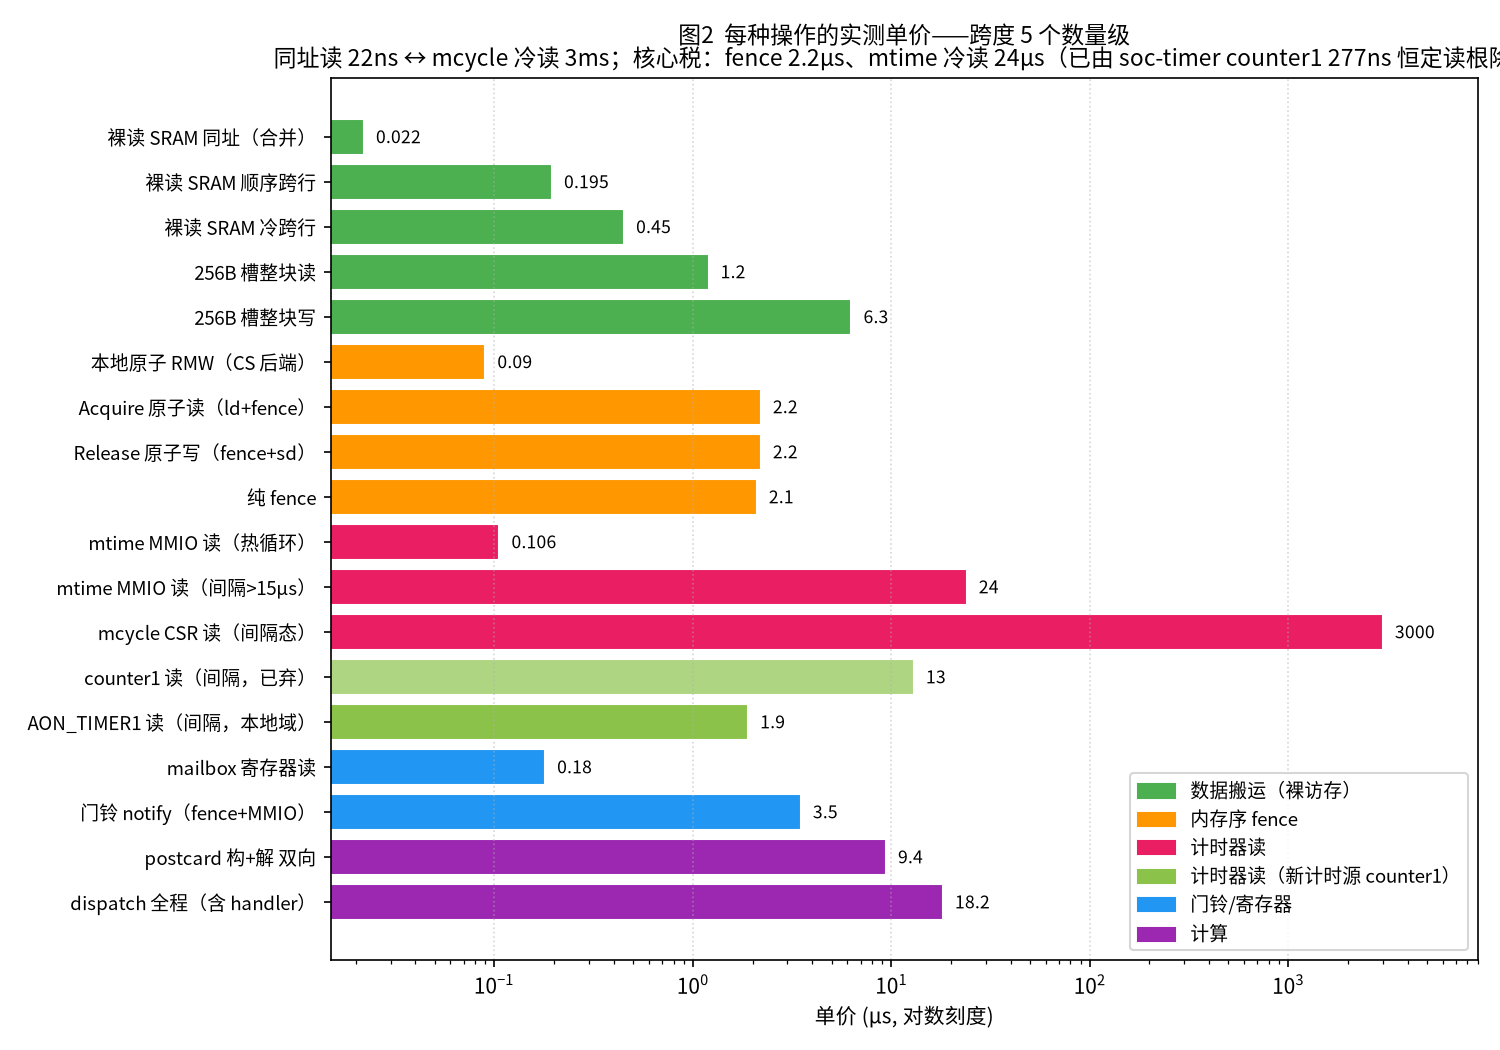
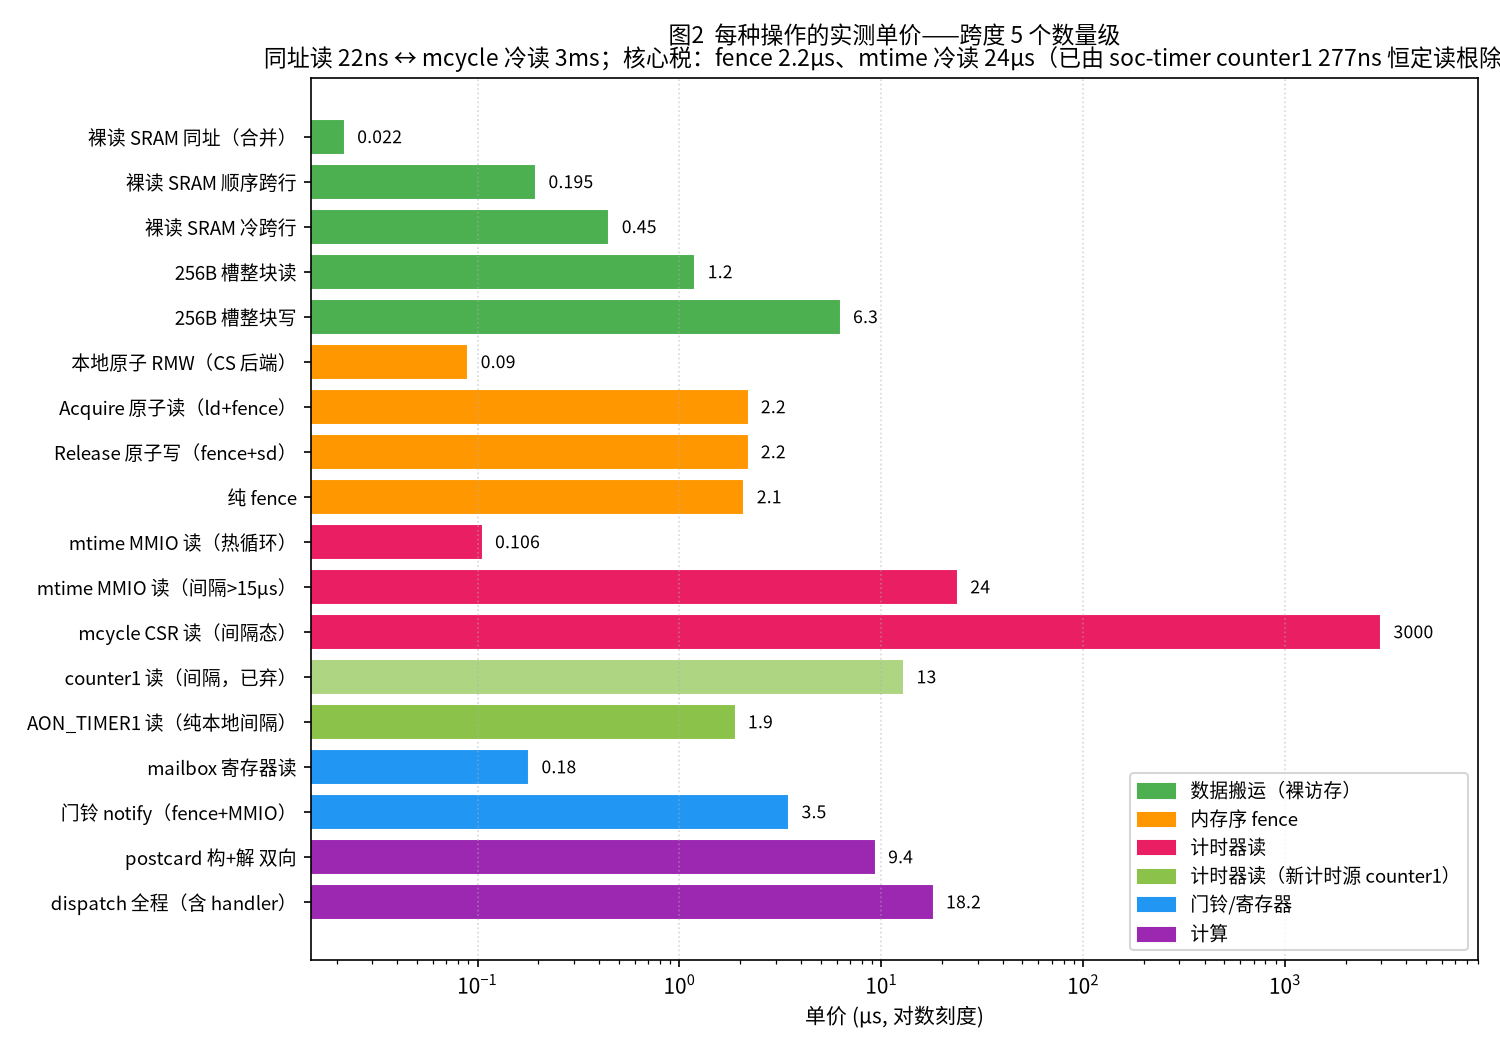
docs(latency-report): AON 迁移二度证伪回滚定案——mtime 税在生产路径被交织流量保温（探针税≠生产税），换源线关闭

diff --git a/docs/latency-report/make_figs.py b/docs/latency-report/make_figs.py
@@ -79,7 +79,7 @@ def fig2_unit_price():
         ("mtime MMIO 读（间隔>15µs）", 24.0, C_TIMER),
         ("mcycle CSR 读（间隔态）",    3000.0, C_TIMER),
         ("counter1 读（间隔，已弃）", 13.0, "#AED581"),  # AP 域跨互连 ~13µs 重锁税，换源证伪
-        ("AON_TIMER1 读（间隔，本地域）", 1.9, "#8BC34A"),  # 换源达标并迁移（eb2da18）：热读 4ns
+        ("AON_TIMER1 读（纯本地间隔）", 1.9, "#8BC34A"),  # 探针价；生产路径间隔仍 ~10µs 级（二度证伪）
         ("mailbox 寄存器读",           0.18, C_BELL),
         ("门铃 notify（fence+MMIO）",  3.5,  C_BELL),
         ("postcard 构+解 双向",        9.4,  C_COMP),

diff --git a/docs/latency-report/REPORT.md b/docs/latency-report/REPORT.md
@@ -107,7 +107,7 @@ D1 路径六段（dd 场景闭环恒等式 `rtt = send + ddrain + ddisp + dseen 
 | mcycle CSR 读（热） | **17ns** | 4 cycle/笔（cycle_hot 4158c/千笔），CSR 本地读无 MMIO |
 | mcycle CSR 读（间隔 ~400µs） | **~2.9ms** | 冷读税比 mtime 重 118 倍；但计数为**核频 245.84MHz**（cycle_cal 联标 1,229,222c/5ms，非 mtime 同源）——"仅冷读慢"型：stamp 链段间保温可用（保温笔仅 17ns），生产每消息级间隔计时冷读不可用 |
 | **soc-timer counter1（0xd4016094）** | 背靠背 277ns；**间隔读 ~13µs** | AP 域 APB 块，12.8MHz 自由运行（mux=0）。换源方案**板上证伪**（08-22）：277ns 是流水价，真实路径 mark 间隔 µs 级仍触发 ~13µs 重锁税（跨域同病、仅轻于 mtime 的 24.5µs），整链 8 笔净亏（rtt 240→248.5 实证）；驱动已删（dfb8b5e，timer_k3 改道本地域） |
-| **AON_TIMER1（0xc0889000，本地域）** | 背靠背 **4ns**；间隔读 **~1.9µs** | RCPU AON 域专属（06_address_map §6.2）。板上验证（08-22）：计数递增、实测 **2.0001MHz**（文档标称 SEL=0=25.6MHz 与实况不符）、热读全系统最快（mtime 106 / mailbox 148 / counter1 277ns）、间隔读税 = mtime 的 1/13（tmr_aon_gapped wall−Σaon 实测，规避插入式盲区）。**生产计时链已迁移（eb2da18）**；分辨率 500ns/tick、回卷 35.8min |
+| **AON_TIMER1（0xc0889000，本地域）** | 背靠背 **4ns**；纯本地间隔读 **~1.9µs**；**生产路径间隔读 ~10µs 级** | RCPU AON 域专属（06_address_map §6.2）。板上验证（08-22）：计数递增、实测 **2.0001MHz**（文档标称 SEL=0=25.6MHz 与实况不符）。**生产迁移二度证伪回滚（05691b0）**：rtt 240→251.5 反向，各段与 counter1 轮同形——探针税（纯本地 spin 间隔）≠ 生产税（跨域流量填充间隔），见 §6 |
 
 **推论**：每条消息的计时/统计链（step 计时、SVC 统计、弹性窗计时、测量构建的 stamp 链）里有若干笔"间隔上百 ms 的冷读"——**每笔真等 24µs**。测量构建（probe 开）每消息 6-8 笔（40-70µs 税）；**生产构建（probe 关）只剩 step/SVC 计时 2-4 笔（24-48µs 税）**。
 
@@ -176,7 +176,7 @@ D1 路径六段（dd 场景闭环恒等式 `rtt = send + ddrain + ddisp + dseen 
 | 优先级 | 项 | 内容 | 预期收益 | 工作量/风险 |
 |-------|----|------|---------|------------|
 | ✅ 已完成 | P1 | 单核原子 CS 后端（atomic-cas:false target）+ timer 直连 + 本地别名窗 + mailbox 去 Acquire | 294→240（D1）/ 209→189（D2） | 已合入 |
-| **进行中** | **计时瘦身（本地换源复活）** | counter1 换源证伪回滚（6f4ec9d）后，**本地域 AON_TIMER1 换源达标并已迁移（eb2da18，08-22 板上验证）**：热读 4ns、间隔读税 ~1.9µs（mtime 24.5µs 的 1/13）。预期生产链 2-4 笔 mark 的税 49-98µs → 4-8µs；**待板上 dd 复测确认收益**（若达标即闭环，采样制降级为备选） | **−40~90µs（D1）**（待实测） | 已完成 / 待验证 |
+| ❌ 已证伪 | ~~计时瘦身·换源~~ | **两度板上证伪并回滚**（counter1：6f4ec9d；AON_TIMER1：05691b0）。**根因定性（08-22 AON 轮定案）：mtime 的 24.5µs 冷读税在生产路径从未被支付**——stamp 点前后交织的 SHM/fence 流量把 mtime 路径保温，基线无税可省；替换计时器（无论域别）在真实间隔下读仍付 ~10µs 级（探针税≠生产税）。计时链维持 mtime；剩余可行项 = **减 mark 笔数**（探针/统计降频），收益重新评估 | 重新评估（原 −40~90µs 前提不成立） | — |
 | 第 2 刀 | **P3 fence 去冗余** | magic 缓存 + 自产索引 Relaxed + 自旋 6→2 笔（D2 发现粒度 ×3）+ ch2 查询瘦身 | −10µs/消息 + 自旋 18→6µs/轮 | 中 / 低——正确性论证已完成（SPSC 单写者 + RP 无缓存） |
 | 第 3 刀 | **W2 双向轮询** | AP 响应方向用户态自旋（已实测 −11µs）；绕过 MSIP 54µs 物理地板 | −11µs 起；延迟关键模式更多 | 小（bench 已预演）/ 烧 AP 核 |
 | ❌ 已否决 | ~~P2 ISR 直派~~ | ~~响应在 ISR 内写完~~ **否决（2026-08-21）**：不破坏 rt-async 的任务模型——实际处理必须留在 task 上下文（executor/waker 语义），ISR 只做唤醒/标记；ddisp 27.1µs 作为结构性成本保留 | —（预期 −22µs 放弃） | — |
@@ -186,7 +186,7 @@ D1 路径六段（dd 场景闭环恒等式 `rtt = send + ddrain + ddisp + dseen 
 
 **本地域优先原则（2026-08-22 定案，后续所有外设选型遵守）**：RT24 高延迟访问的根因是**跨簇间互连**——mtime（SysTimer @0xe4000000）虽是 rcpu1 功能上的计时器（mtimecmp 按 hart<<27 分区服务全部 hart），但物理上是全 SoC 共享块，挂在簇间互连上，读它必出远门（24.5µs 间隔重锁税即互连/桥的空闲路径唤醒，热读 106ns 证明路径本身不慢；机制无文档，未解项）。**RT24 本地总线上的外设只有 0xc088_xxxx AON 域这批**（06_address_map §6.2：AON_TIMER1~4、mailbox、PWM 等）。凡是高频访问的外设（计时、自旋索引），尽可能以本地域替代外域——这是 AON_TIMER1 换源尝试（dfb8b5e）与远期硬件选项筛选的共同准则。附带收获：**2026-08-21 "rtimer0 块死"悬案破案**——非域过滤，是 `MCU_TIMER1_CLK_RST`（0xc088c04c）bit0 TIMER_SW_RSTN **低有效**（复位值 0=保持复位），当时按 APBC 高有效惯例写两笔 0x7→0x3，第二笔清了 bit0 把外设重新按住复位。
 
-**本地域换源：AON_TIMER1 验证达标并迁移（08-22 板上，eb2da18）**：tmr_rt_on 计数递增（Δ=2002/ms）破"块死"旧案；tmr_aon_cal 联标 **2.0001MHz**（文档 SEL=0 标称 25.6MHz 与实况不符，按实测；2MHz 下 32 位回卷 35.8min、分辨率 500ns——dd 分段数十 µs 足够）；**热读 4ns/笔**（全系统最快，快于 mtime 106 / mailbox 寄存器 148 / counter1 277ns——本地域身份的铁证）；**间隔读税 ~1.9µs/笔**（tmr_aon_gapped：wall−Σaon 摊 200 轮，含 mtime 括号冷读摊薄 ~245ns；结构 = 忙等脱离 mtime 计时，规避 counter1 轮的插入式盲区）。比 1µs 判据略超但为 mtime 的 **1/13**——生产链 2-4 笔 mark 的税 49-98µs → 4-8µs。**已迁移**（ISR 戳/T_SCHED/t_seen/step SVC/弹性窗/membench 括号/delay/stamp 链同源；counter1 轮 t_seen 漏迁致混合钟的前车之鉴，本轮全量核查）；mtimecmp 睡眠唤醒仍走 SysTimer。待板上 dd 复测确认收益。副产品：本轮 spin_loop 忙等实测每轮 ~25ms（CVA6 pause 指令比预期贵），不影响判据。
+**本地域换源：探针达标 → 迁移 → 生产二度证伪回滚（08-22 完整弧线）**：tmr_rt_on 计数递增（Δ=2002/ms）破"块死"旧案；tmr_aon_cal 联标 **2.0001MHz**（文档 SEL=0 标称 25.6MHz 与实况不符）；热读 **4ns/笔**（全系统最快）；纯本地间隔读税 **~1.9µs**（tmr_aon_gapped wall−Σaon）。据此迁移（eb2da18，含 counter1 轮 t_seen 漏迁教训的全量同钟核查，闭环残差 0.0）——但 dd 复测 **rtt 240→251.5 反向**，svc 148/dslot 40.5 与 counter1 轮（146/40.4）几乎同形。**定案：mtime 的 24.5µs 冷读税在生产路径从未被支付**——stamp 点前后交织的 SHM/fence 流量把 mtime 路径保温（"异设备读令 mtime 变热"效应的另一面），基线无税可省，预期 −40~90µs 的前提错误；替换计时器（无论 counter1 还是本地域 AON）在真实间隔（跨域流量填充）下读仍付 ~10µs 级。**探针税 ≠ 生产税**——继插入式盲区后第二个探针-生产外推失效案例，固化规则：**任何计时/访存优化必须以生产路径 dd 复测为准，探针只作筛选**。已回滚（05691b0），timer_k3 驱动与 tmr_aon_* 探针保留。计时链维持 mtime；计时瘦身剩余可行项 = 减 mark 笔数（收益需重估，基线本就无税）。另：send 14.6 连续两轮 vs 基线 8.5（AP 路径未改）——非轮间漂移，疑启动间环境态，挂账。
 
 **计时源替换：换源证伪与回滚**（08-21 判可行 → 08-22 板上证伪，完整记录）：`tmr_clkon` 开门成功、counter1 @12.798MHz 自由运行、`tmr_cal`/`tmr_setup` 全绿——但迁移后复测 **rtt 240.0→248.5µs 反向**。归因：`tmr_hot` 277ns 是**背靠背流水价**，真实路径 stamp 间隔 µs 级时每笔 **~13µs 重锁税**（dslot 40.4/dpre 25.8/svc 146 反推一致；12.8MHz 计数钟到 RCPU 总线同样跨时钟域，病轻于 mtime 但整链 8 笔净亏）；`tmr_gapped` 的负 Δ 被"异设备读令 mtime 变热"效应掩盖——探针结构盲区教训。**已回滚（6f4ec9d）**，counter1 驱动已删（dfb8b5e，timer_k3 重写为本地域 AON_TIMER1）。结论固化：**三个外域计时器（mtime/counter1/mcycle）间隔读全部有跨域税（24.5/13/2900µs）**——换源能否复活取决于本地域 AON_TIMER1 的 tmr_aon_gapped 实测；不行则计时瘦身唯一出路 = 少读（采样制/减 mark）。另：本轮 dd 的 send 14.3 vs 之前 8.5µs（AP 侧路径未改，未解，待下轮确认是否环境漂移）。
 
